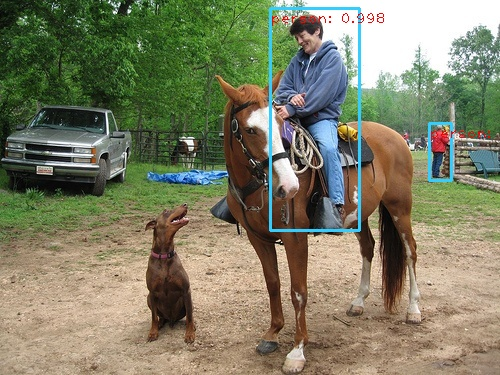
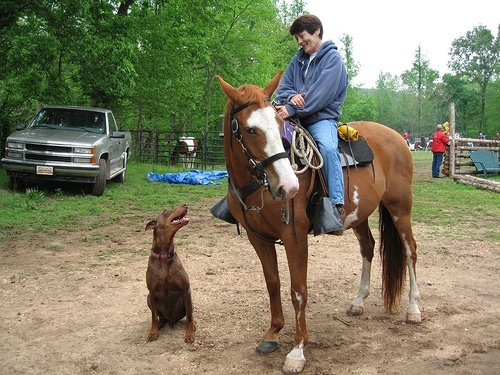
pedestrians

Changed region(s): [[0.51, 0.0, 0.78, 0.6453], [0.84, 0.3227, 0.99, 0.4987]]

diff --git a/demo.py b/demo.py
@@ -16,8 +16,8 @@ def test():
     # model_file = '/media/longc/Data/models/faster_rcnn_pytorch3/faster_rcnn_100000.h5'
     # model_file = '/media/longc/Data/models/faster_rcnn_pytorch2/faster_rcnn_2000.h5'
     detector = FasterRCNN()
-    # network.load_net(model_file, detector)
-    load_net_pedestrians(model_file, detector)
+    network.load_net(model_file, detector)
+    #load_net_pedestrians(model_file, detector)
     detector.cuda()
     detector.eval()
     print('load model successfully!')

diff --git a/faster_rcnn/rpn_msr/anchor_target_layer.py b/faster_rcnn/rpn_msr/anchor_target_layer.py
@@ -55,8 +55,8 @@ def anchor_target_layer(rpn_cls_score, gt_boxes, gt_ishard, dontcare_areas, im_i
         print (_anchors)
         print ('anchor shapes:')
         print (np.hstack((
-            _anchors[:, 2::4] - _anchors[:, 0::4],
-            _anchors[:, 3::4] - _anchors[:, 1::4],
+            _anchors[:, 2::4] - _anchors[:, 0::4] + 1,
+            _anchors[:, 3::4] - _anchors[:, 1::4] + 1,
         )))
         _counts = cfg.EPS
         _sums = np.zeros((1, 4))

diff --git a/faster_rcnn/faster_rcnn.py b/faster_rcnn/faster_rcnn.py
@@ -19,7 +19,6 @@ from faster_rcnn.network import Conv2d, FC
 from faster_rcnn.roi_pooling.modules.roi_pool import RoIPool
 from faster_rcnn.vgg16 import VGG16
 from faster_rcnn.fast_rcnn.config import cfg, cfg_from_file
-
 cfg_file = 'experiments/cfgs/faster_rcnn_end2end.yml'
 cfg_from_file(cfg_file)
 

diff --git a/faster_rcnn/roi_data_layer/minibatch.py b/faster_rcnn/roi_data_layer/minibatch.py
@@ -12,6 +12,7 @@ import numpy.random as npr
 import cv2
 import os
 
+
 # TODO: make fast_rcnn irrelevant
 # >>>> obsolete, because it depends on sth outside of this project
 from ..fast_rcnn.config import cfg
